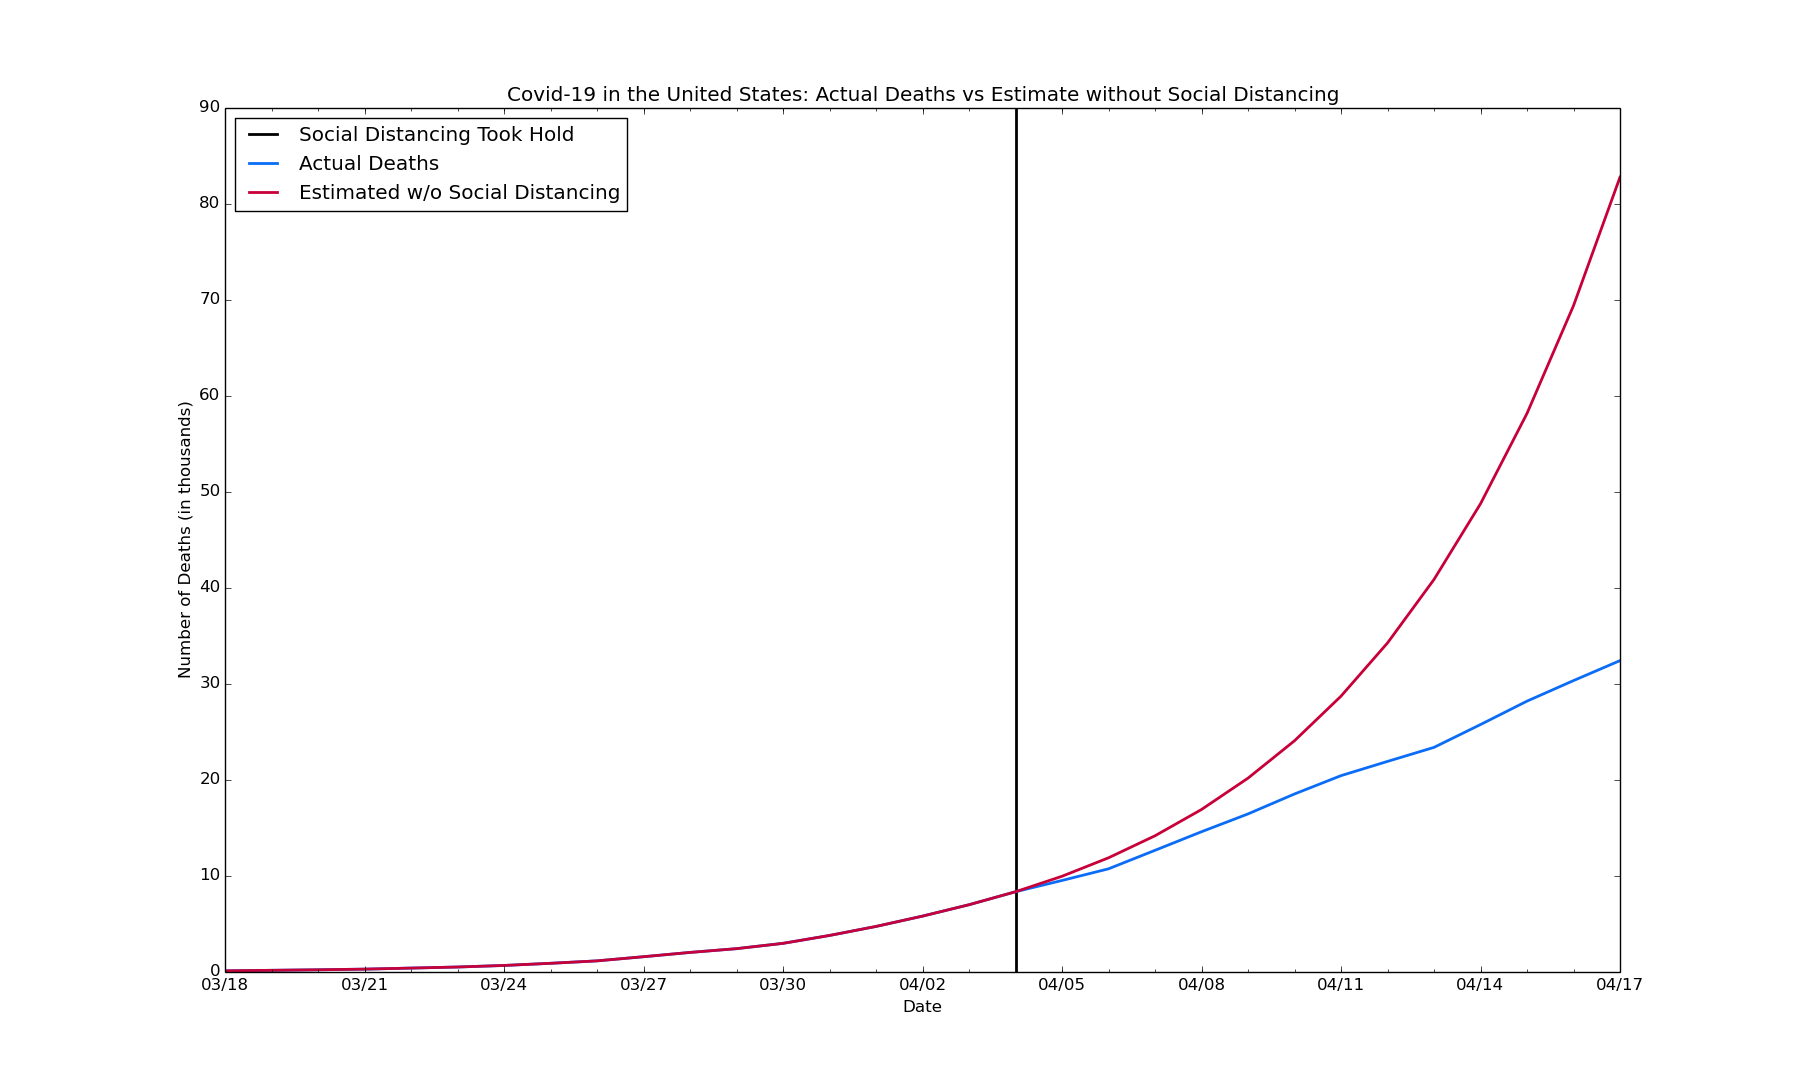
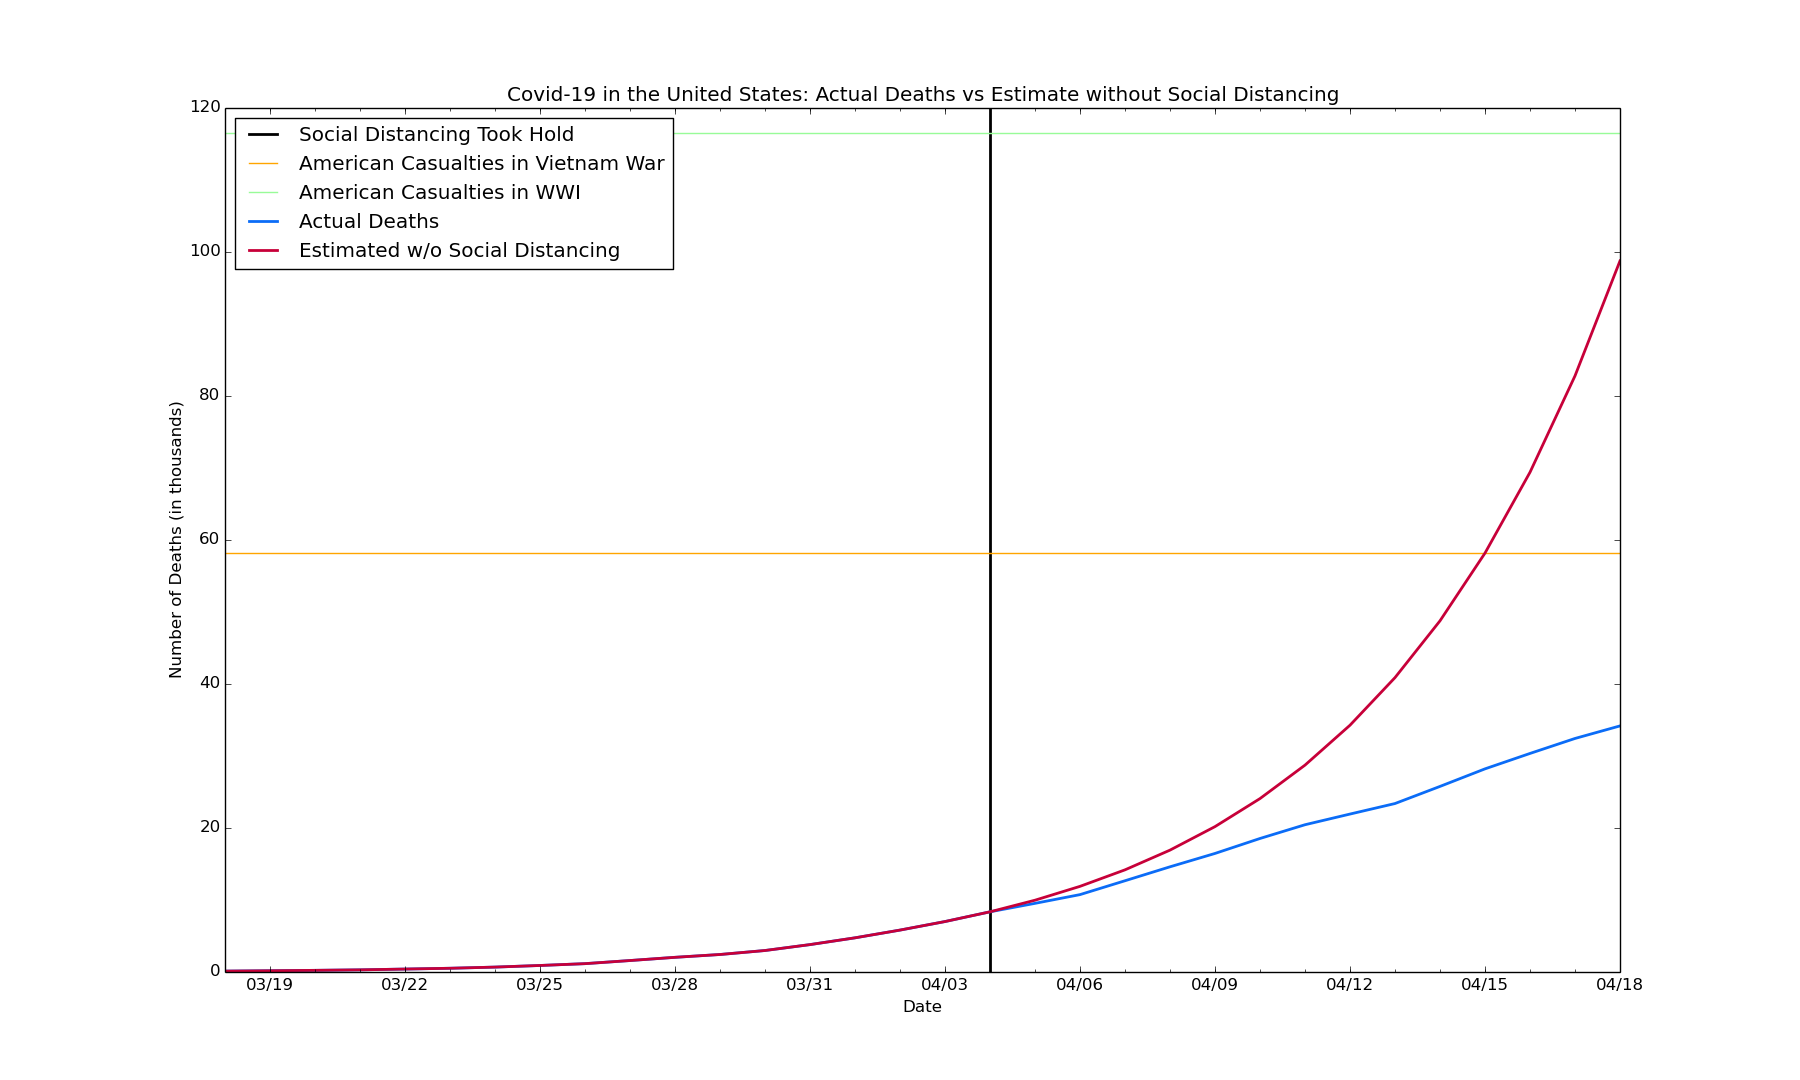
feat: Update projections with 4/18 data, including addition of American war casualties

diff --git a/projections/us-deaths.py b/projections/us-deaths.py
@@ -6,7 +6,7 @@ import matplotlib.dates as mdates
 import matplotlib.ticker as ticker
 from matplotlib.dates import MO, TU, WE, TH, FR, SA, SU
 
-dates = ['3/18/2020', '3/19/2020', '3/20/2020', '3/21/2020', '3/22/2020', '3/23/2020', '3/24/2020', '3/25/2020', '3/26/2020', '3/27/2020', '3/28/2020', '3/29/2020', '3/30/2020', '3/31/2020', '4/1/2020', '4/2/2020', '4/3/2020', '4/4/2020', '4/5/2020', '4/6/2020', '4/7/2020', '4/8/2020', '4/9/2020', '4/10/2020', '4/11/2020', '4/12/2020', '4/13/2020', '4/14/2020', '4/15/2020', '4/16/2020', '4/17/2020']
+dates = ['3/18/2020', '3/19/2020', '3/20/2020', '3/21/2020', '3/22/2020', '3/23/2020', '3/24/2020', '3/25/2020', '3/26/2020', '3/27/2020', '3/28/2020', '3/29/2020', '3/30/2020', '3/31/2020', '4/1/2020', '4/2/2020', '4/3/2020', '4/4/2020', '4/5/2020', '4/6/2020', '4/7/2020', '4/8/2020', '4/9/2020', '4/10/2020', '4/11/2020', '4/12/2020', '4/13/2020', '4/14/2020', '4/15/2020', '4/16/2020', '4/17/2020', '4/18/2020']
 
 # format dates
 x_values = [dt.datetime.strptime(d, "%m/%d/%Y").date() for d in dates]
@@ -25,9 +25,14 @@ ax.get_yaxis().set_major_formatter(ticker.FuncFormatter(lambda x, pos: format(in
 # social distancing (by state) started to slow the curve
 plt.axvline(dt.datetime(2020, 4, 4), color='black', linewidth=2, label='social distancing')
 
-actual = [123, 175, 230, 298, 408, 519, 681, 906, 1159, 1592, 2039, 2431, 2985, 3806, 4746, 5821, 7007, 8359, 9534, 10748, 12674, 14610, 16466, 18544, 20453, 21936, 23398, 25776, 28214, 30355, 32435]
+# American deaths from Vietnam War
+plt.axhline(y=58220, color='orange', linestyle='-', linewidth=1, label='vietnam')
+# American deaths from WWI
+plt.axhline(y=116516, color='#98FB98', linestyle='-', linewidth=1, label='wwi')
 
-estimate = [123, 175, 230, 298, 408, 519, 681, 906, 1159, 1592, 2039, 2431, 2985, 3806, 4746, 5821, 7007, 8359, 9971, 11895, 14189, 16927, 20192, 24087, 28733, 34276, 40888, 48775, 58183, 69407, 82796]
+actual = [123, 175, 230, 298, 408, 519, 681, 906, 1159, 1592, 2039, 2431, 2985, 3806, 4746, 5821, 7007, 8359, 9534, 10748, 12674, 14610, 16466, 18544, 20453, 21936, 23398, 25776, 28214, 30355, 32435, 34178]
+
+estimate = [123, 175, 230, 298, 408, 519, 681, 906, 1159, 1592, 2039, 2431, 2985, 3806, 4746, 5821, 7007, 8359, 9971, 11895, 14189, 16927, 20192, 24087, 28733, 34276, 40888, 48775, 58183, 69407, 82796, 98767]
 
 # create the graph
 plt.plot(x_values, actual, color='#0b6cf7', linewidth=2)
@@ -37,6 +42,6 @@ plt.plot(x_values, estimate, color='#C70039', linewidth=2)
 plt.title('Covid-19 in the United States: Actual Deaths vs Estimate without Social Distancing')
 plt.xlabel('Date')
 plt.ylabel('Number of Deaths (in thousands)')
-plt.legend(['Social Distancing Took Hold', 'Actual Deaths', 'Estimated w/o Social Distancing'], loc='upper left')
+plt.legend(['Social Distancing Took Hold', 'American Casualties in Vietnam War', 'American Casualties in WWI', 'Actual Deaths', 'Estimated w/o Social Distancing'], loc='upper left')
 
 plt.show()

diff --git a/projections/us-cases.py b/projections/us-cases.py
@@ -6,7 +6,7 @@ import matplotlib.dates as mdates
 import matplotlib.ticker as ticker
 from matplotlib.dates import MO, TU, WE, TH, FR, SA, SU
 
-dates = ['3/18/2020', '3/19/2020', '3/20/2020', '3/21/2020', '3/22/2020', '3/23/2020', '3/24/2020', '3/25/2020', '3/26/2020', '3/27/2020', '3/28/2020', '3/29/2020', '3/30/2020', '3/31/2020', '4/1/2020', '4/2/2020', '4/3/2020', '4/4/2020', '4/5/2020', '4/6/2020', '4/7/2020', '4/8/2020', '4/9/2020', '4/10/2020', '4/11/2020', '4/12/2020', '4/13/2020', '4/14/2020', '4/15/2020', '4/16/2020', '4/17/2020']
+dates = ['3/18/2020', '3/19/2020', '3/20/2020', '3/21/2020', '3/22/2020', '3/23/2020', '3/24/2020', '3/25/2020', '3/26/2020', '3/27/2020', '3/28/2020', '3/29/2020', '3/30/2020', '3/31/2020', '4/1/2020', '4/2/2020', '4/3/2020', '4/4/2020', '4/5/2020', '4/6/2020', '4/7/2020', '4/8/2020', '4/9/2020', '4/10/2020', '4/11/2020', '4/12/2020', '4/13/2020', '4/14/2020', '4/15/2020', '4/16/2020', '4/17/2020', '4/18/2020']
 
 # format dates
 x_values = [dt.datetime.strptime(d, "%m/%d/%Y").date() for d in dates]
@@ -25,9 +25,9 @@ ax.get_yaxis().set_major_formatter(ticker.FuncFormatter(lambda x, pos: format(in
 # social distancing (by state) started to slow the curve
 plt.axvline(dt.datetime(2020, 4, 4), color='black', linewidth=2, label='social distancing')
 
-actual = [8074, 12022, 17439, 23710, 32341, 42751, 52690, 64916, 81966, 101012, 121105, 140223, 160686, 186082, 212814, 241626, 273808, 307876, 333593, 362955, 393707, 425746, 459989, 493567, 525436, 553493, 578178, 604165, 633630, 665706, 696621]
+actual = [8074, 12022, 17439, 23710, 32341, 42751, 52690, 64916, 81966, 101012, 121105, 140223, 160686, 186082, 212814, 241626, 273808, 307876, 333593, 362955, 393707, 425746, 459989, 493567, 525436, 553493, 578178, 604165, 633630, 665706, 696621, 724895]
 
-estimate = [8074, 12022, 17439, 23710, 32341, 42751, 52690, 64916, 81966, 101012, 121105, 140223, 160686, 186082, 212814, 241626, 273808, 307876, 346176, 389240, 437662, 492107, 553325, 622158, 699555, 786579, 884430, 994453, 1118163, 1257262, 1413666]
+estimate = [8074, 12022, 17439, 23710, 32341, 42751, 52690, 64916, 81966, 101012, 121105, 140223, 160686, 186082, 212814, 241626, 273808, 307876, 346176, 389240, 437662, 492107, 553325, 622158, 699555, 786579, 884430, 994453, 1118163, 1257262, 1413666, 1589526]
 
 # create the graph
 plt.plot(x_values, actual, color='#0b6cf7', linewidth=2)
